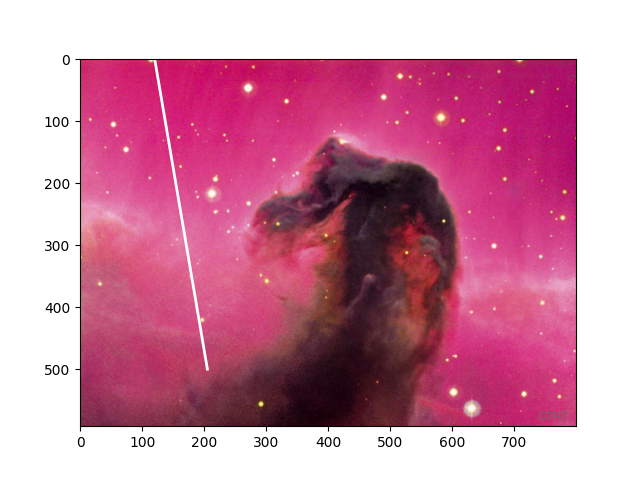
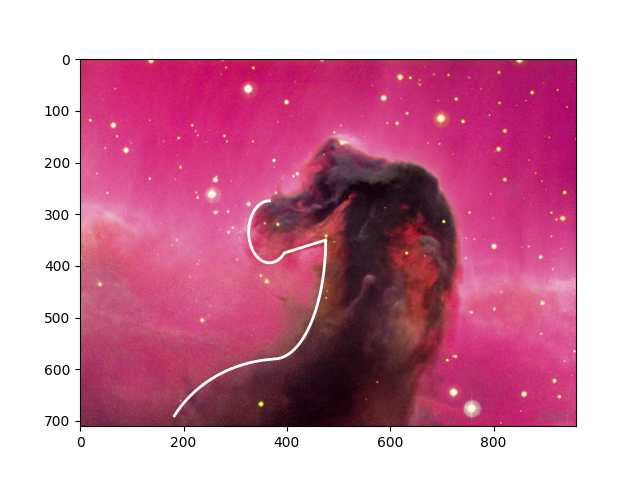
nknkn

diff --git a/lec_1_imageaproximation.py b/lec_1_imageaproximation.py
@@ -1,13 +1,28 @@
 import matplotlib.pyplot as plt
 import numpy as np
 
-img = plt.imread('n.jpg.jpg')
+img = plt.imread('H.jpg')
+
 fig, ax = plt.subplots()
 ax.imshow(img)
 
-x = [120, 205]
-y = [0, 500]
+t = np.linspace(np.pi-np.pi/6,np.pi/1.9, 100)
+x = 390 + 240*np.cos(t)
+y = 800 - 220*np.sin(t)
+ax.plot(x, y, '-', lw=2, color='w')
 
+t = np.linspace(3*np.pi/2, 2*np.pi, 100)
+x = 375 + 100*np.cos(t)
+y = 350 - 230*np.sin(t)
+ax.plot(x, y, '-', lw=2, color='w')
+
+x = [475, 395]
+y = [350, 375]
+ax.plot(x, y, '-', lw=2, color='w')
+
+t = np.linspace(np.pi/2, 3*np.pi/2+np.pi/4, 100)
+x = 366 + 40*np.cos(t)
+y = 334 - 60*np.sin(t)
 ax.plot(x, y, '-', lw=2, color='w')
 
 plt.savefig("horseapp.png")

diff --git a/lec_1_importimage.py b/lec_1_importimage.py
@@ -1,7 +1,7 @@
 import matplotlib.pyplot as plt
 import numpy as np
 
-img = plt.imread('n.jpg.jpg')
+img = plt.imread('n.jpg')
 fig, ax = plt.subplots()
 ax.imshow(img, extent=[0, 1000, 0, 200])
 plt.ylim(0, 600)
